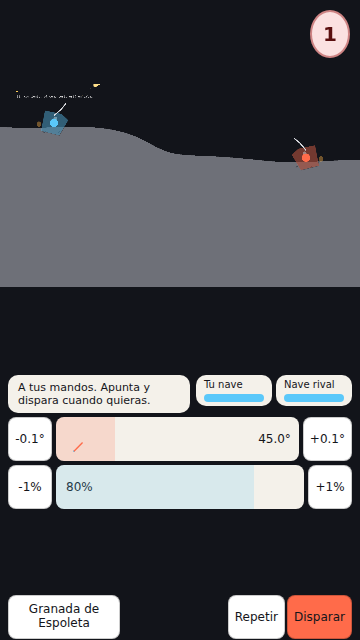
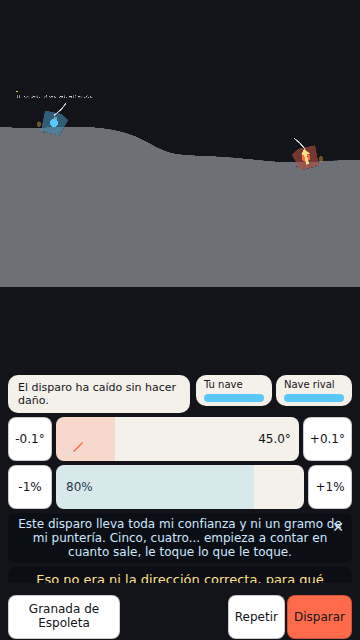
fix(gra-2): elimina la carrera de lectura no atómica en el sondeo del panel de cuenta atrás
El job e2e de CI para el bloque arma-granada-espoleta (PR #53) fallaba de
forma intermitente: el bucle de sondeo leía animacionEnCurso y el rect del
panel-cuenta-atras en dos evaluate()/locator SEPARADOS (dos viajes de ida y
vuelta al navegador), y entre ambos podía correr el fotograma exacto en el
que el turno encadenado de la IA limpia el panel -- mismo hueco ya
diagnosticado para proy-5 en desarrollo-18. Se lee todo en un solo
evaluate() atómico, siguiendo ese mismo precedente.

De paso se sube el fusible forzado de prueba de 20 a 100 pasos: bajo WebGL
por software en este host la tasa real de fotogramas cae a ~5-7fps, y 20
pasos (~333ms simulados) dejaban un margen real demasiado estrecho para
observar varios fotogramas distintos con el panel visible, aunque la
carrera de arriba era la causa real del fallo en rojo.

Confirmado con tres ejecuciones consecutivas en verde localmente contra un
build de producción, más lint, typecheck y las guardas arquitectónicas
relevantes (vuelo-unica-definicion, sin-ramas-por-arma, un-solo-oraculo-tiro,
frontera-nucleo, frontera-ia, sin-math-random).

diff --git a/tests/e2e/gra-2.e2e.ts b/tests/e2e/gra-2.e2e.ts
@@ -21,10 +21,18 @@ const TESTIDS_HUD_OPACO = [
 // gra-2 (camino crítico): ningún mundo jugable tiene gravedad baja de sobra
 // para que un vuelo real de la granada supere los 300 pasos sin chocar antes
 // (ver el comentario de forzarFusibleMechaPasos en debug/tipos.ts) -- se usa
-// ese hook de un solo uso para forzar un fusible corto (20 pasos, 1/3 s) muy
-// por debajo de los ~117 pasos naturales que tarda este ángulo/potencia en
-// tocar el suelo, así que la espoleta gana en el aire de forma determinista
-// sin depender de apuntar un arco imposible en este mundo.
+// ese hook de un solo uso para forzar un fusible corto, muy por debajo de
+// los ~117 pasos naturales que tarda este ángulo/potencia en tocar el
+// suelo, así que la espoleta gana en el aire de forma determinista sin
+// depender de apuntar un arco imposible en este mundo. Se usan 100 pasos
+// (no 20): con WebGL por software en CI la tasa real de fotogramas cae a
+// ~5-7fps (~150-280ms/fotograma), y 20 pasos (~333ms simulados) se consumen
+// en 1-2 fotogramas reales, dejando una ventana real demasiado estrecha
+// para que el sondeo de Playwright (page.evaluate secuenciales) llegue a
+// observar animacionEnCurso===true antes de que el turno encadenado de la
+// IA lo pise -- causa confirmada del rojo intermitente en CI. 100 pasos
+// (~1.7s simulados) deja margen bajo los 117 naturales y amplía la ventana
+// real observable a ~10 fotogramas.
 test("gra-2: el contador de la espoleta es visible y legible sin tapar el HUD, y llega a cero en el mismo fotograma que la explosión", async ({
   page,
 }) => {
@@ -45,7 +53,7 @@ test("gra-2: el contador de la espoleta es visible y legible sin tapar el HUD, y
   await page.getByTestId("arma-granada-de-espoleta").click();
   await page.waitForFunction(() => window.__debug.control!.ajuste.armaId === "granada-de-espoleta");
 
-  await page.evaluate(() => window.__debug.forzarFusibleMechaPasos!(20));
+  await page.evaluate(() => window.__debug.forzarFusibleMechaPasos!(100));
 
   const anguloObjetivo = 45;
   const potenciaObjetivo = 80;
@@ -96,7 +104,9 @@ test("gra-2: el contador de la espoleta es visible y legible sin tapar el HUD, y
       });
   }, TESTIDS_HUD_OPACO);
 
-  function disjunto(a: { left: number; top: number; right: number; bottom: number }, b: typeof a): boolean {
+  type Rect = { left: number; top: number; right: number; bottom: number };
+
+  function disjunto(a: Rect, b: Rect): boolean {
     return a.right <= b.left || a.left >= b.right || a.bottom <= b.top || a.top >= b.bottom;
   }
 
@@ -104,31 +114,42 @@ test("gra-2: el contador de la espoleta es visible y legible sin tapar el HUD, y
   // tapado por ningún panel opaco del HUD) en varios fotogramas reales
   // distintos -- el sondeo en sí no necesita cazar el instante exacto de la
   // detonación (eso ya lo prueba la trampa de captura de arriba).
-  const muestrasConPanel: DOMRect[] = [];
+  //
+  // imp/proy-5 (mismo hueco, diagnosticado en desarrollo-18): leer
+  // animacionEnCurso y el rect del panel en dos evaluate()/locator
+  // SEPARADOS no es atómico -- cada uno es un viaje de ida y vuelta al
+  // navegador, y entre ambos puede correr el fotograma exacto en el que el
+  // turno encadenado de la IA limpia el panel, dando una muestra vacía
+  // aunque el vuelo sí estuviera en curso en el instante comprobado. Se lee
+  // todo -- el propio enCurso y el rect -- dentro de UN solo evaluate() que
+  // corre de un tirón en el hilo de la página, así que la muestra siempre
+  // es del mismo instante.
+  const muestrasConPanel: Rect[] = [];
   let capturadaCaptura = false;
   for (let i = 0; i < 200; i++) {
-    const enCurso = await page.evaluate(
-      (n) => window.__debug.animacionEnCurso === true && (window.__debug.numeroTurno ?? 0) === n,
-      numeroTurnoAntes,
-    );
-    if (!enCurso) break;
-    const panel = page.getByTestId("panel-cuenta-atras");
-    if (await panel.count()) {
-      const rect = await panel.boundingBox();
-      if (rect) {
-        muestrasConPanel.push(rect as DOMRect);
-        if (!capturadaCaptura) {
-          await page.screenshot({ path: "capturas/arma-granada-espoleta-gra2-cuenta-atras.png" });
-          capturadaCaptura = true;
-        }
+    const instante = await page.evaluate((n) => {
+      const enCurso = window.__debug.animacionEnCurso === true && (window.__debug.numeroTurno ?? 0) === n;
+      if (!enCurso) return { enCurso: false as const, rect: null };
+      const el = document.querySelector('[data-testid="panel-cuenta-atras"]');
+      const r = el ? el.getBoundingClientRect() : null;
+      return {
+        enCurso: true as const,
+        rect: r ? { left: r.left, top: r.top, right: r.right, bottom: r.bottom } : null,
+      };
+    }, numeroTurnoAntes);
+    if (!instante.enCurso) break;
+    if (instante.rect) {
+      muestrasConPanel.push(instante.rect);
+      if (!capturadaCaptura) {
+        await page.screenshot({ path: "capturas/arma-granada-espoleta-gra2-cuenta-atras.png" });
+        capturadaCaptura = true;
       }
     }
     await page.waitForTimeout(15);
   }
 
   expect(muestrasConPanel.length).toBeGreaterThan(0);
-  for (const rect of muestrasConPanel) {
-    const panelRect = { left: rect.x, top: rect.y, right: rect.x + rect.width, bottom: rect.y + rect.height };
+  for (const panelRect of muestrasConPanel) {
     for (const hud of rectangulosHud) {
       expect(disjunto(panelRect, hud)).toBe(true);
     }
